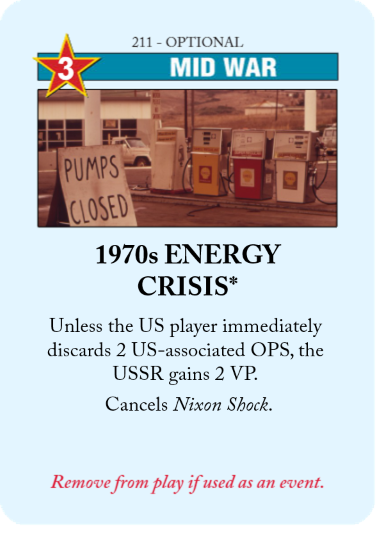
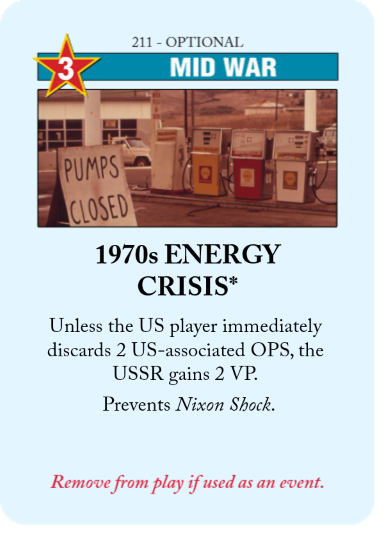
Balance explorer fix (#2397)
* Revert "fixed end of community being cut off"

This reverts commit ef585d9711778195fe221c0b01d4e37a8b4dd7bc.

* update phrasing on Nixon Shock, Energy crisis - es

* updated phrasing on Nixon Shock, Energy crisis

updated "cancels" to "prevents". Neither event persists after they've been played so they can't be cancelled, but they can be prevented.

* css emergency fix for videocall

* updated HIS purchase link

* fixing nolan/saito ratio

---------

Changed region(s): [[0.2474, 0.7138, 0.7113, 0.7732]]

diff --git a/mods/explorer/web/utils.js b/mods/explorer/web/utils.js
@@ -188,7 +188,7 @@ async function checkBalance(pubkey = "") {
     if (data.length <= 3) {
       console.log(data);
       let balance_nolan = data[1].split(/\s/)[4] || 0;
-      let nolan_per_saito = 10000000;
+      let nolan_per_saito = 100000000;
       let balance_saito = formatNumberLocale(balance_nolan / nolan_per_saito);
       // draw
       document.querySelector('.balance-saito').innerHTML = balance_saito;
@@ -219,7 +219,7 @@ async function checkAllBalance() {
 
     let balance_saito = document.createElement("div");
     balance_saito.setAttribute("class", "explorer-balance-data");
-    let nolan_per_saito = parseFloat(col_data[4]) / 10000000;
+    let nolan_per_saito = parseFloat(col_data[4]) / 100000000;
     balance_saito.innerHTML = formatNumberLocale(nolan_per_saito);
     node.appendChild(balance_saito);
 

diff --git a/mods/his/README.md b/mods/his/README.md
@@ -65,7 +65,7 @@ sure that any players you support can fulfill these conditions by making it easy
 them to purchase commercial copies of the game.
 
 GMT GAMES:
-https://www.gmtgames.com/p-588-twilight-struggle-deluxe-edition-2016-reprint.aspx
+https://www.gmtgames.com/p-917-here-i-stand-500th-anniversary-reprint-edition-2nd-printing.aspx
 
 AMAZON:
 https://www.amazon.com/Here-I-Stand-Board-Game/dp/B077QTQGYQ
